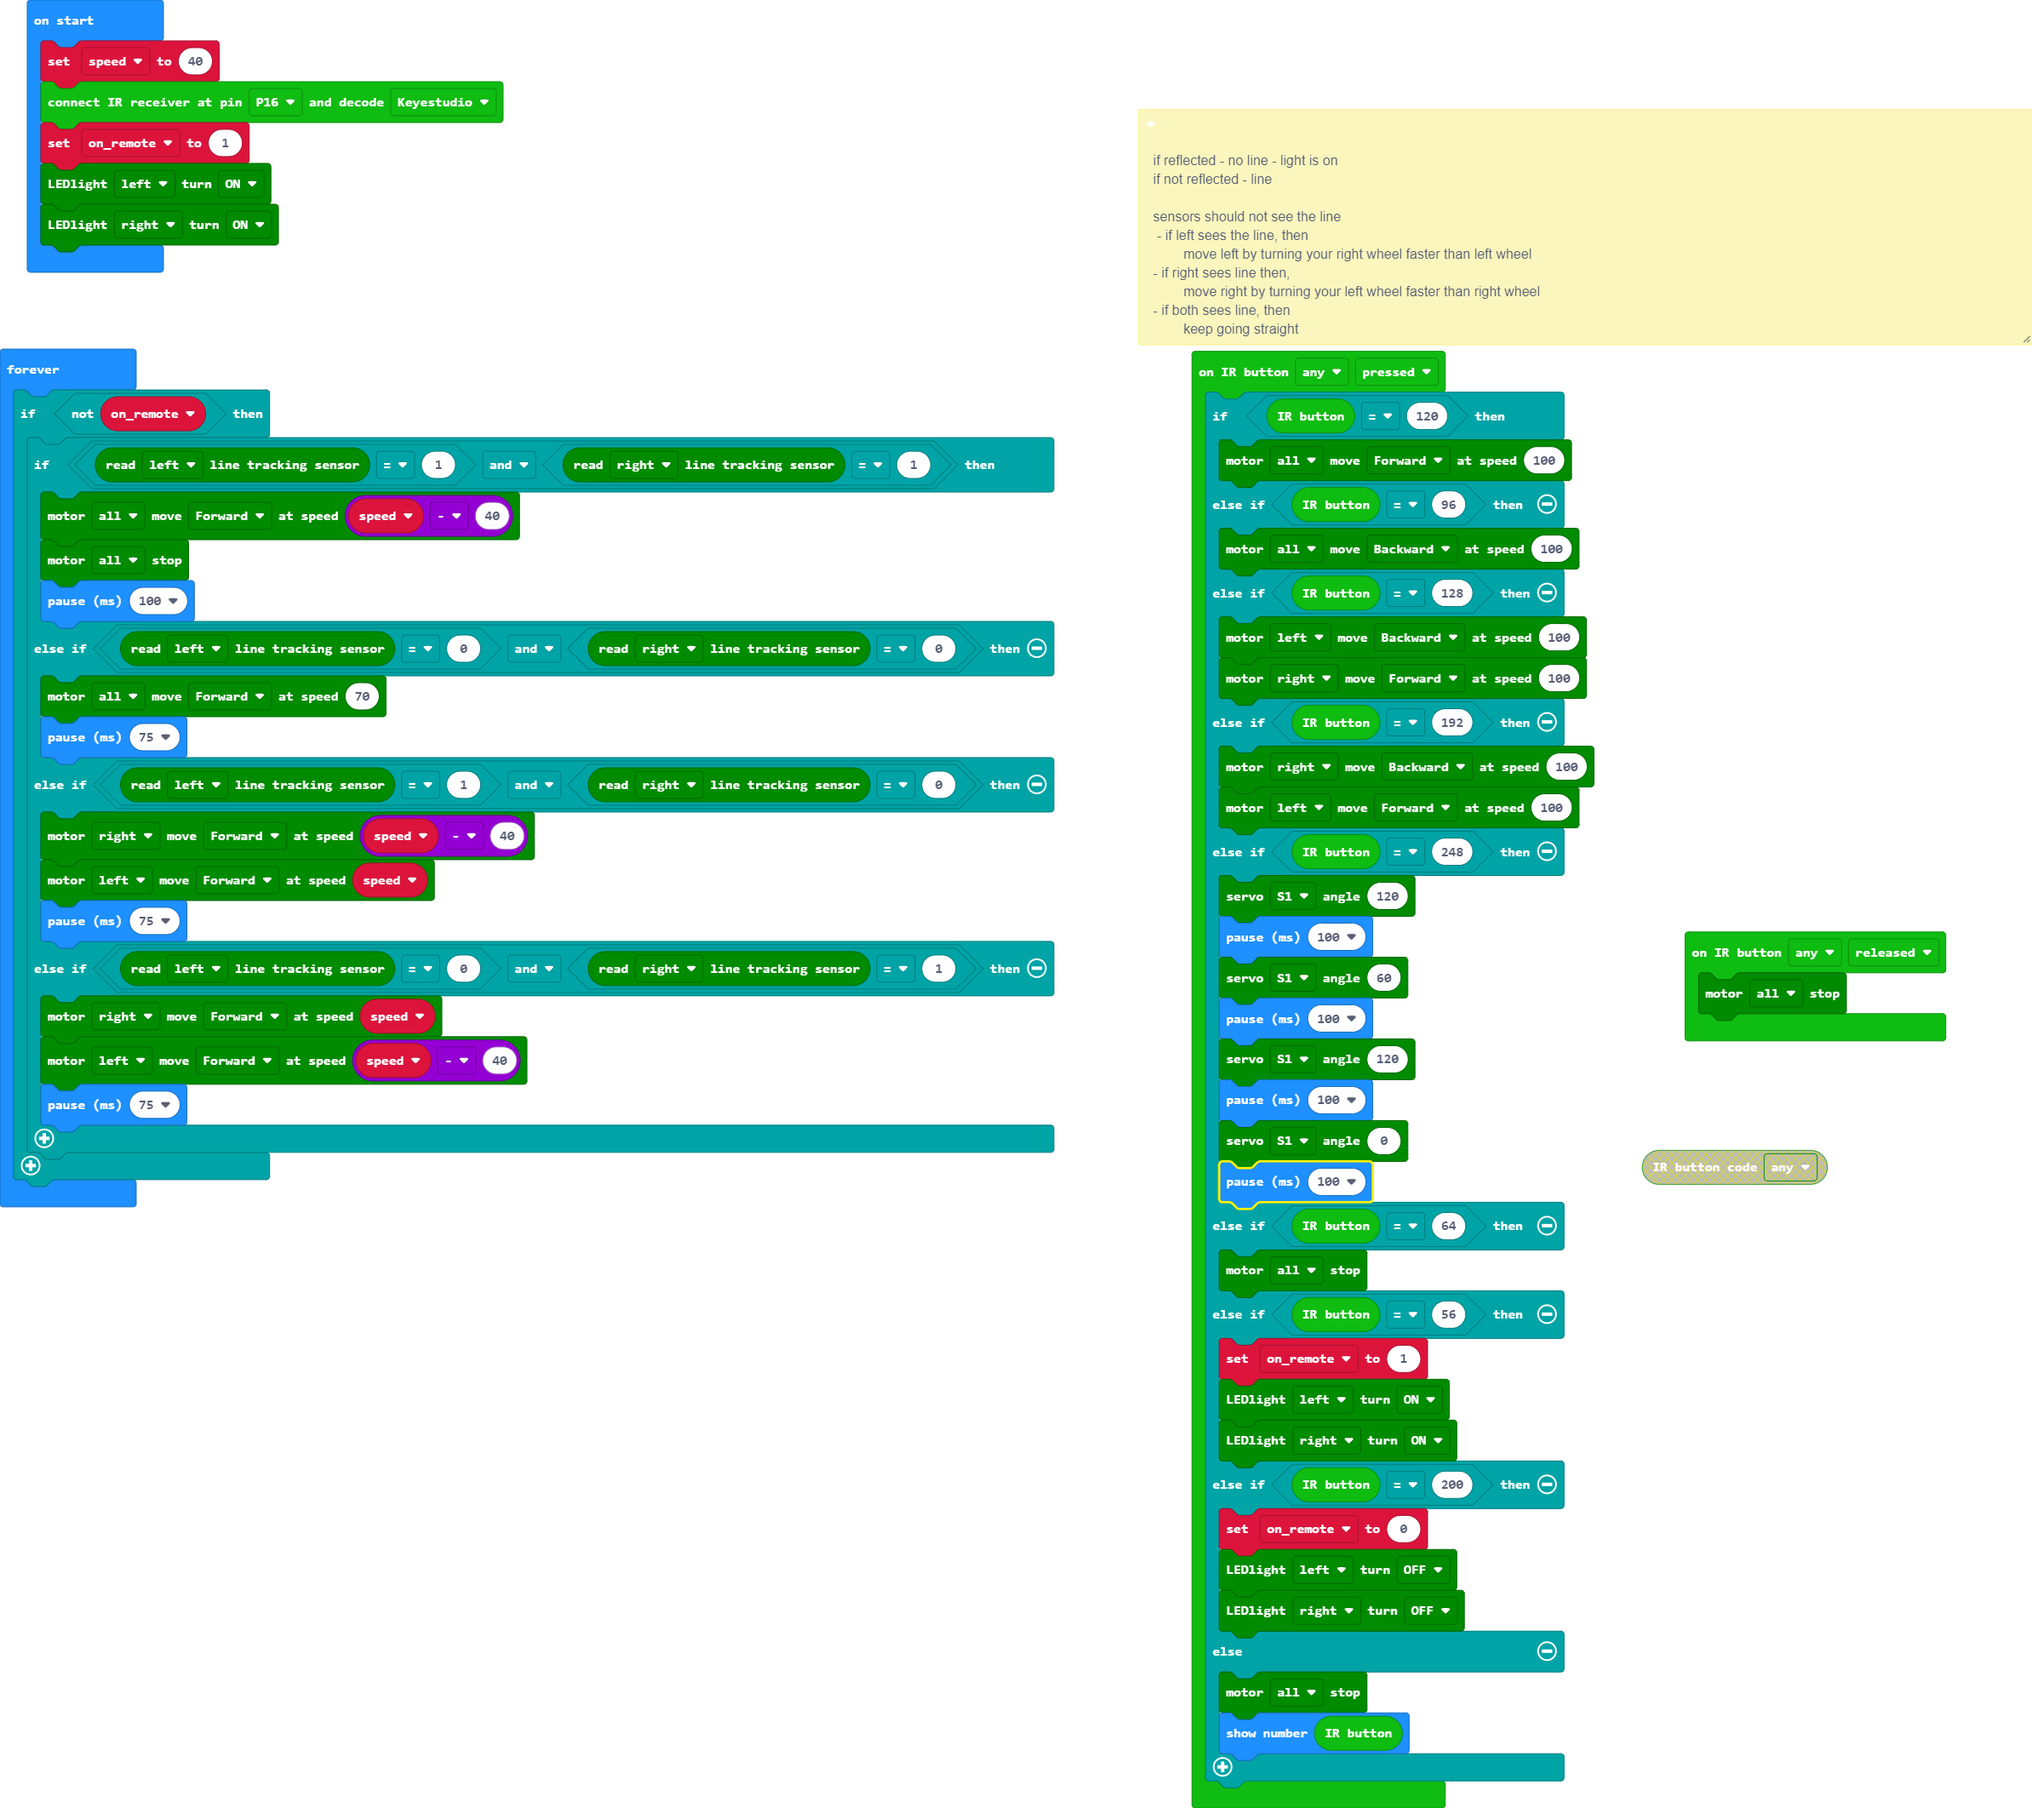
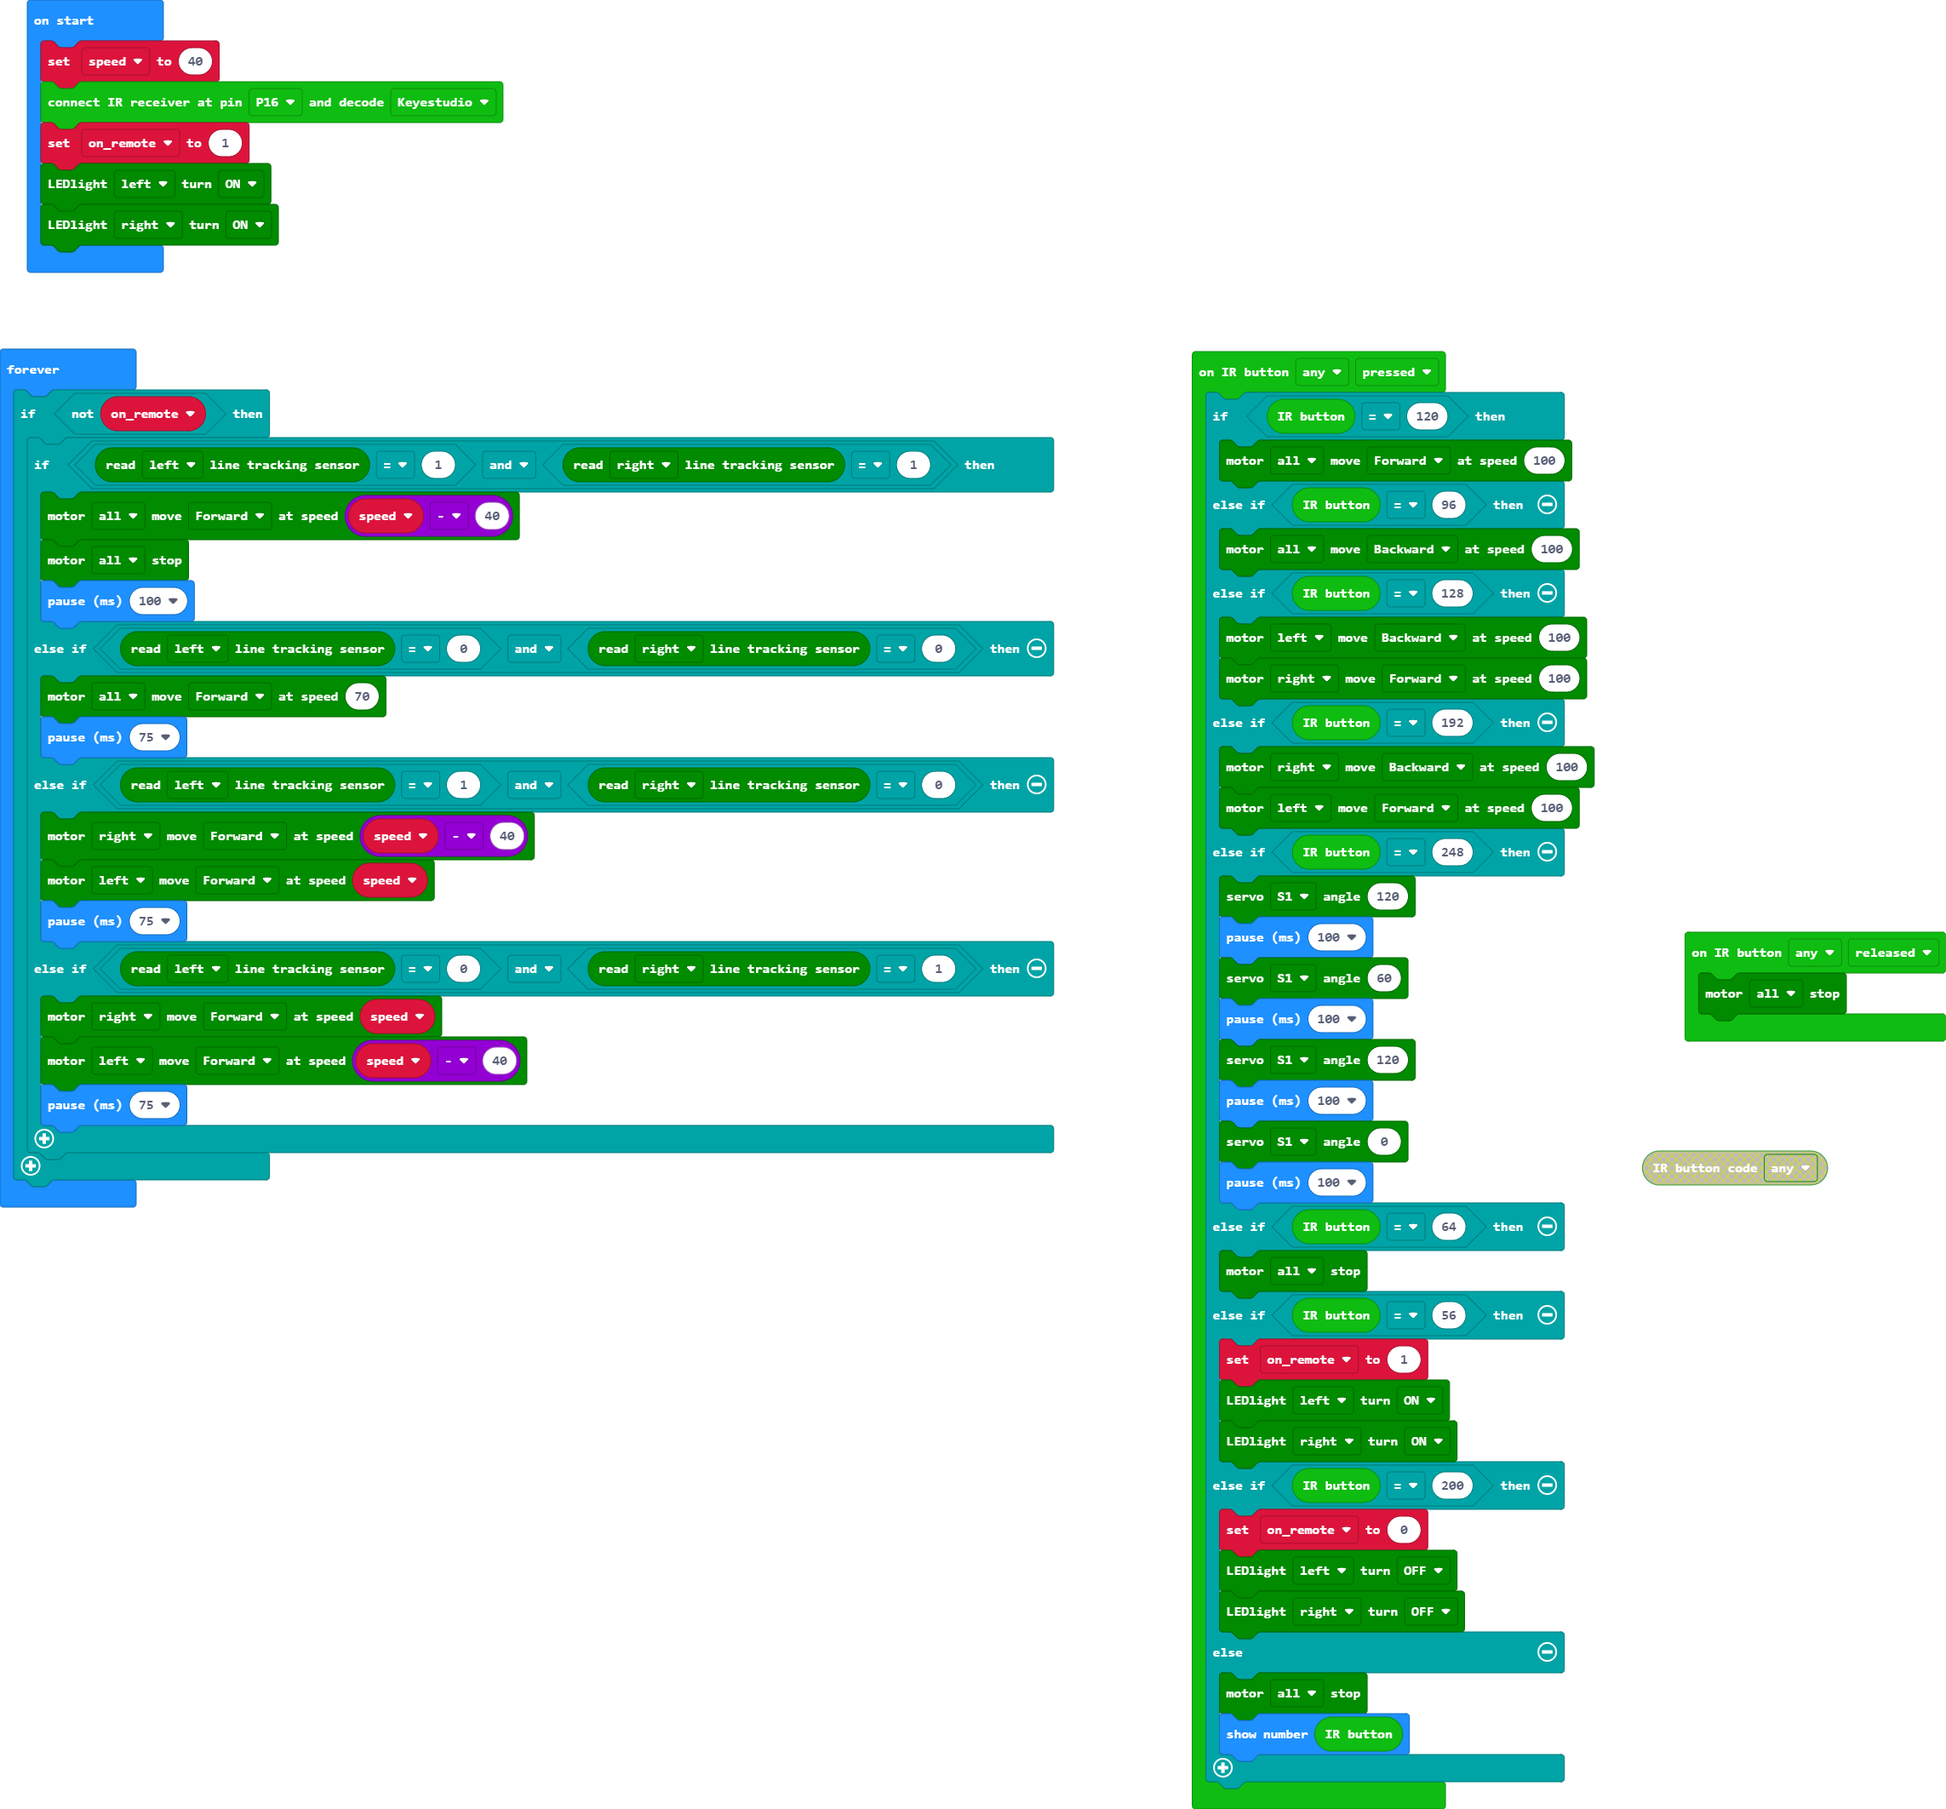
Update main.blocks, main.ts

diff --git a/main.ts b/main.ts
@@ -1,29 +1,6 @@
 makerbit.onIrButton(IrButton.Any, IrButtonAction.Released, function () {
     maqueen.motorStop(maqueen.Motors.All)
 })
-/**
- * if reflected - no line - light is on
- * 
- * if not reflected - line
- * 
- * sensors should not see the line
- * 
- *  - if left sees the line, then 
- * 
- *         move left by turning your right wheel faster than left wheel
- * 
- * - if right sees line then,
- * 
- *         move right by turning your left wheel faster than right wheel
- * 
- * - if both sees line, then
- * 
- *         keep going straight
- * 
- * - if no one sees line, then
- * 
- *         stop
- */
 makerbit.onIrButton(IrButton.Any, IrButtonAction.Pressed, function () {
     if (makerbit.irButton() == 120) {
         maqueen.motorRun(maqueen.Motors.All, maqueen.Dir.CW, 100)
